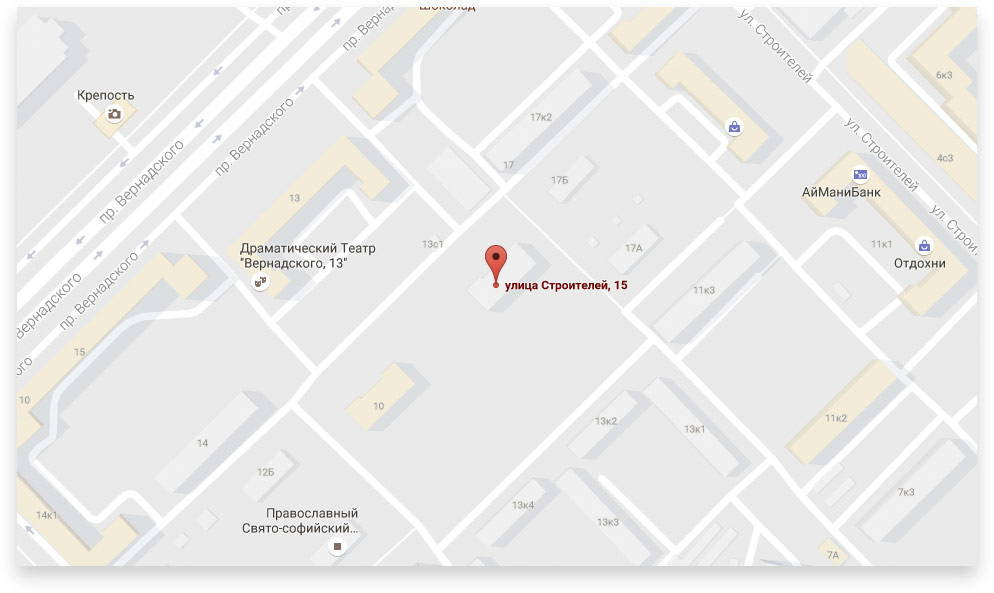
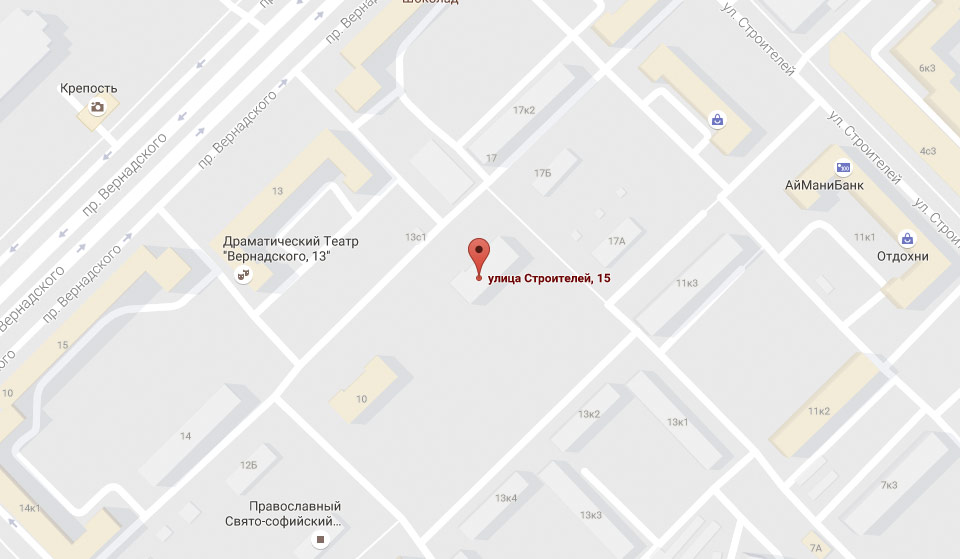
редактирование кнопки в попапе декорирование label

diff --git a/css/style.css b/css/style.css
@@ -252,6 +252,7 @@ form {
   margin-top: 25px;
   padding: 0;
   display: none;
+  /*background-color: #f7e184;*/
 }
 .sub-menu a {
   display: block;
@@ -328,7 +329,6 @@ input[type="radio"].visually-hidden {
 .slide {
   display: none;
 }
-
 
 .slider-goods li {
   width: 1160px;
@@ -548,7 +548,21 @@ input[type="radio"].visually-hidden {
   padding: 0;
   z-index: 2;
 }
-
+.show-more-information::before {
+  content: "";
+  position: absolute;
+  top: 35%;
+  left: -10%;
+  width: 115%;
+  height: 8px;
+  background: #f0c52e;
+  transition: all 200ms ease;
+  z-index: -1;
+}
+.show-more-information:hover::before {
+  height: 100%;
+  top: 0;
+}
 .show-more-information:active {
   color: #c4b376;
 }
@@ -638,7 +652,28 @@ input[type="radio"].visually-hidden {
 .slider-controls-our-services label {
   font-size: 18px;
   margin-top: 40px;
+  position: relative;
 }
+.label-decoration::before {
+  content: "";
+  position: absolute;
+  top: 35%;
+  left: 20%;
+  width: 60%;
+  height: 8px;
+  background: #f0c52e;
+  transition: all 300ms ease;
+  z-index: -1;
+}
+.label-decoration:hover::before {
+  height: 100%;
+  top: 0;
+}
+.label-decoration:active {
+  background-color: #000000;
+  color: #be9c22;
+}
+
 .slides-services::before {
   content: "";
   position: absolute;
@@ -1071,7 +1106,7 @@ address::after {
   margin-left: 290px;
 }
 .modal {
-  z-index: 1;
+  z-index: 10;
   position: fixed;
   top: 50%;
   left: 50%;
@@ -1098,6 +1133,7 @@ address::after {
   margin-left: 100px;
   margin-right: 100px;
   margin-top: 95px;
+  z-index: 10;
 }
 .write-us-form::before {
   content: "";
@@ -1143,14 +1179,41 @@ address::after {
 .write-us-button {
   margin-top: 5px;
   margin-left: 34px;
+  background: none;
+  position: relative;
+  font-family: 'PT Gilroy', Arial, sans-serif;
+  font-size: 18px;
+  font-weight: 700;
+  text-transform: uppercase;
+  letter-spacing: 5px;
+  border: none;
+  z-index: 2;
 }
-
+.write-us-button::before {
+  content: "";
+  position: absolute;
+  top: 35%;
+  left: 0%;
+  width: 100%;
+  height: 8px;
+  background: #f0c52e;
+  transition: all 200ms ease;
+  z-index: -1;
+}
+.write-us-button:hover::before {
+  height: 100%;
+  top: 0;
+}
+.write-us-button:active {
+  color: #8d7536;
+}
 .modal-map {
   display: none;
-  width: 994px;
-  height: 593px;
+  width: 960px;
+  height: 559px;
   margin: 50px auto;
   /*position: relative;*/
+  box-shadow: 0 8px 20px 0px #b5b5b5;
 }
 .modal-close {
 
@@ -1455,7 +1518,7 @@ legend {
 .filter-form-button:active {
   color: #8d7536;
 }
-button::before {
+.filter-form-button::before {
   content:'';
   position: absolute;
   top: 35%;
@@ -1466,7 +1529,7 @@ button::before {
   transition: all 300ms ease;
   z-index: -1;
 }
-button:hover:before {
+.filter-form-button:hover:before {
   height: 100%;
   top: 0;
 }
@@ -1605,6 +1668,9 @@ legend {
   line-height: 24px;
   font-weight: 700;
   color: #000000;
+}
+.sku-name--1 {
+  width: 220px;
 }
 .sku-price {
   font-family: 'PT Gilroy', Arial, sans-serif;

diff --git a/index.html b/index.html
@@ -29,7 +29,7 @@
 <section class="modal modal-map"> <!--modal-show-->
   <h2 class="visually-hidden">Как до нас добраться</h2>
   <p class="modal-modal-map-content">
-    <img src="img/map-big.jpg" width="994" height="593" alt="Офис компании по адресу ул. Строителей 15, Москва">
+    <img src="img/map-big.jpg" width="960" height="559" alt="Офис компании по адресу ул. Строителей 15, Москва">
   </p>
   <button class="modal-close" type="button"></button>
 </section>
@@ -199,9 +199,9 @@
         <input type="radio" id="warranty" name="warranty">
         <input type="radio" id="credit" name="credit">
         <div class="slider-controls-our-services">
-          <label class="" for="delivery-button">Доставка</label>
-          <label for="warranty">Гарантия</label>
-          <label for="credit">Кредит</label>
+          <label class="label-decoration" for="delivery-button">Доставка</label>
+          <label class="label-decoration" for="warranty">Гарантия</label>
+          <label class="label-decoration" for="credit">Кредит</label>
         </div>
       </div>
       <div class="slides-services">
@@ -213,7 +213,7 @@
                 бесплатно!
                 Ведь мы неплохо заработаем, поднимая его на ваш этаж.</p>
             </div>
-            <img src="img/delivery.svg" width="136" height="164" alt="dsakhk">
+            <img src="img/delivery.svg" width="136" height="164" alt="Доставка">
           </li>
           <li class="warranty">
             <div class="warranty-wrapper">
@@ -222,7 +222,7 @@
                 переживайте, мы выдадим вам новый.
                 Товар, не дом, конечно же.</p>
             </div>
-            <img src="img/warranty.svg" width="171" height="195" alt="dsakhk">
+            <img src="img/warranty.svg" width="171" height="195" alt="Гарантия">
           </li>
           <li class="credit">
             <div class="credit-wrapper">
@@ -231,7 +231,7 @@
                 наиболее выгодные
                 условия кредита. Выгодные для нашего банка, разумеется.</p>
             </div>
-            <img src="img/credit.svg" width="156" height="188" alt="dsakhk">
+            <img src="img/credit.svg" width="156" height="188" alt="Кредит">
           </li>
         </ul>
       </div>

diff --git a/shop.html b/shop.html
@@ -179,7 +179,7 @@
               </p>
               <h2>
                 <a class="signature" href="catalog-item.html">
-                  <span class="sku-name">Профессиональная селфи-палка</span>
+                  <span class="sku-name sku-name--1">Профессиональная селфи-палка</span>
                   <span class="sku-price">1500 руб.</span>
                 </a>
               </h2>
@@ -217,7 +217,7 @@
               </p>
               <h2>
                 <a class="signature" href="catalog-item.html">
-                  <span class="sku-name">Селфи-палка «Следуй за мной»</span>
+                  <span class="sku-name sku-name--1">Селфи-палка «Следуй за мной»</span>
                   <span class="sku-price">4900 руб.</span>
                 </a>
               </h2>
